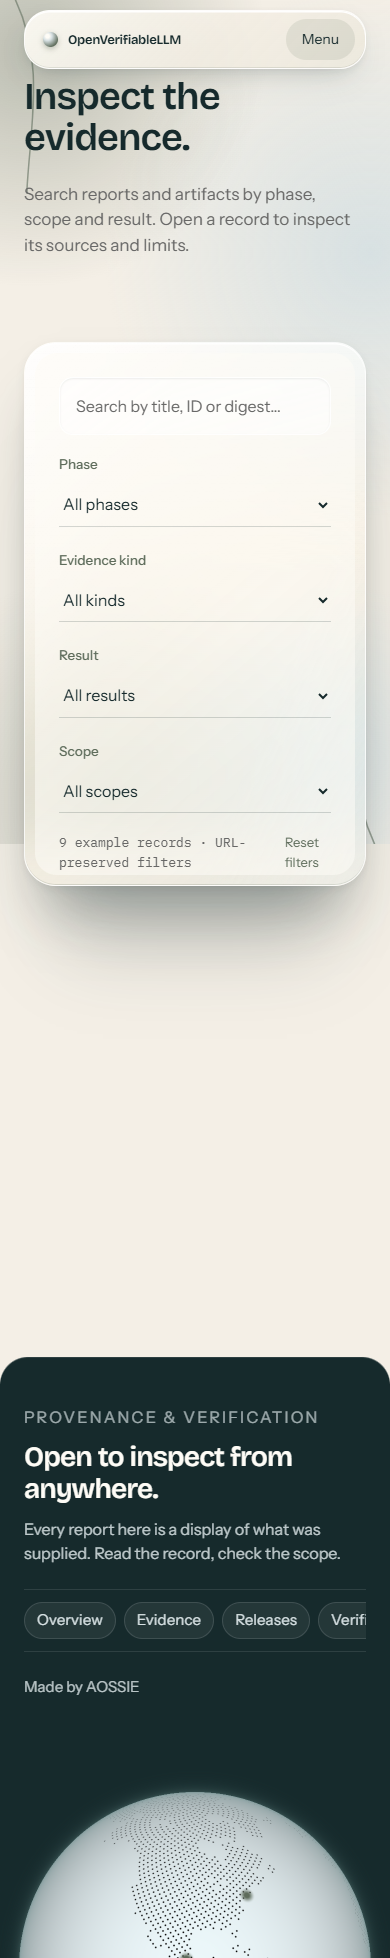
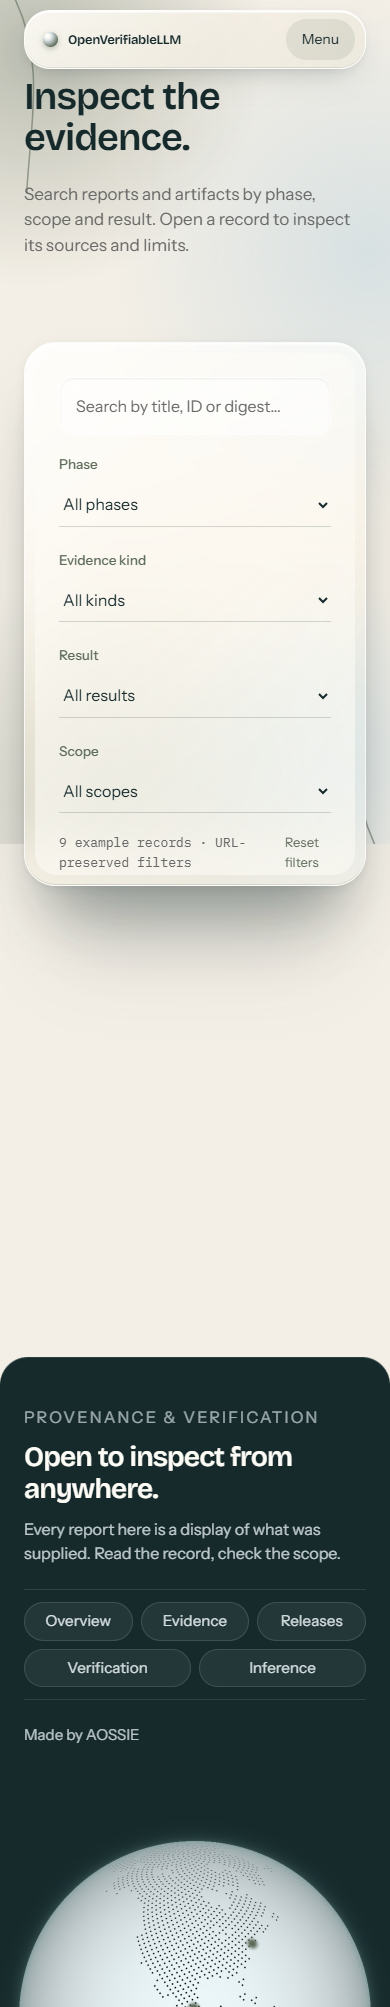
fix(mobile): arrange footer page links in 2 lines with 3 above and 2 below

diff --git a/frontend/src/styles.css b/frontend/src/styles.css
@@ -240,11 +240,18 @@ pre { white-space:pre-wrap; overflow-wrap:anywhere; max-height:360px; overflow:a
   .footer-title { font-size:28px; } .site-footer { border-radius:28px 28px 0 0; min-height:560px; } .footer-inner { padding-top:48px; padding-bottom:260px; }
   .footer-content { max-width:100%; gap:24px; }
   .footer-nav {
-    display:flex; flex-direction:row; flex-wrap:nowrap; align-items:center; gap:8px;
-    padding:12px 0; overflow-x:auto; -webkit-overflow-scrolling:touch; scrollbar-width:none; max-width:100%;
+    display:grid; grid-template-columns:repeat(6, 1fr); gap:8px;
+    padding:12px 0; max-width:100%;
   }
-  .footer-nav::-webkit-scrollbar { display:none; }
-  .footer-nav-link { display:inline-flex; flex-shrink:0; padding:6px 12px; font-size:13px; white-space:nowrap; }
+  .footer-nav-link {
+    display:inline-flex; justify-content:center; align-items:center;
+    padding:7px 10px; font-size:13px; text-align:center;
+  }
+  .footer-nav-link:nth-child(1),
+  .footer-nav-link:nth-child(2),
+  .footer-nav-link:nth-child(3) { grid-column:span 2; }
+  .footer-nav-link:nth-child(4),
+  .footer-nav-link:nth-child(5) { grid-column:span 3; }
   .footer-globe { right:50%; transform:translateX(50%); width:440px; height:440px; bottom:-230px; }
   .release-card { padding:24px; }
   .inference-panel { padding:24px; } .inference-panel h2 { font-size:32px; }
